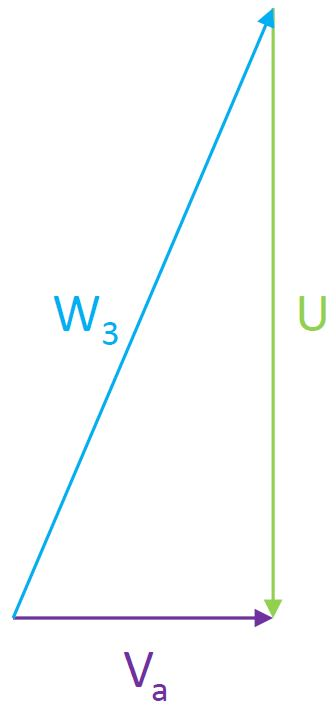
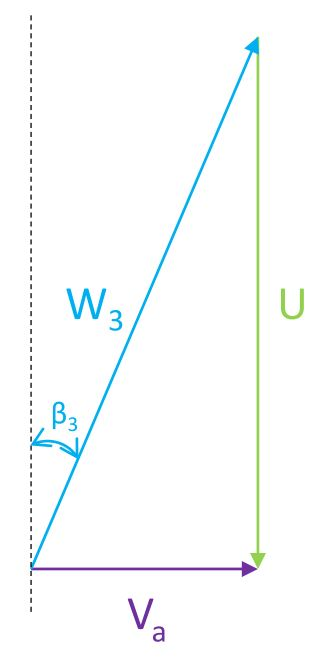
Chapter 1 finished. Chapter 2 first part.

Changed region(s): [[0.0311, 0.0, 0.8385, 0.9091], [0.3727, 0.9091, 0.528, 1.0], [0.8696, 0.3939, 0.9938, 0.4848]]

diff --git a/chapters/02_proiectare.tex b/chapters/02_proiectare.tex
@@ -1,9 +1,118 @@
-\chapter{Proiectare retele profile}\label{chapter:proiectare}
+\chapter{Proiectare rețele profile}\label{chapter:proiectare}
 
-\section{Retele de profile subtiri}
+\section{Rețele de profile subțiri}
 
-\subsection{Subsection}
+\subsection{Calculul diametrului la butuc}
 
-\section{Adaugare functie de grosime}
+Pentru a calcula diametrul la butuc conform teoriei dezvoltata la Timișoara de Susan-Resiga et al \cite{susanhub} trebuie sa rezolvam ecuația pentru intensitatea rotației $\sigma$, cu un rezultat adimensional.
+
+Conform ecuației fundamentale a turbomașinilor (ecuația lui Euler) avem viteza absolută la periferie:
+
+\begin{equation}
+gH=UV_{u}, \text{ sau } gH=\frac{\pi n}{30} R_{p} V_{up} \Rightarrow V_{u}=\frac{30gH}{\pi n R_{p}}
+\end{equation}
+
+Viteza medie de descărcare este:
+
+\begin{equation}
+V_{ad}=\frac{Q}{\pi R_{p}^2}
+\end{equation}
+
+În ambele ecuații, (2.1) și (2.2) raza conductei este practic raza de la periferie a turbinei. Ca rezultat, parametrul de intensitate a rotației este:
+
+\begin{equation}
+\sigma \equiv \frac{V_{up}}{V_{ad}} = 30 \frac{g H R_{b}}{n Q}
+\end{equation}
+
+În care regiunea (necunoscută) stagnantă $R_{s}$ (la butuc), se indică raportul de raza de stagnare fata de raza la periferie, totul la pătrat, de unde putem obține $x$ și apoi raza la butuc:
+
+\begin{equation}
+x \equiv \bigg(\frac{R_{s}}{R_{p}}\bigg)^2 \Rightarrow R_{s} = \sqrt{x} R_{p}
+\end{equation}
+
+Pentru o turbionare cu circulație constantă și o presiune totală constantă în conducta a fost derivata \cite{susanhub} o ecuație algebrică care se aplica pentru $\sigma$ și $x$:
+
+\begin{equation}
+\frac{\sigma^2}{x^2} - \frac{2}{(1-x^3)} = 0
+\end{equation}
+
+Din (2.4) și (2.5) putem calcula raza la butuc $R_{s}$ folosind \cite{lebedev1991formulae} și obținem o valoare de $94\si{mm}$.
+
+\clearpage
+
+
+\subsection{Calcule teoretice a vitezelor}
+
+Considerăm zona de interacțiune a turbinei cu fluidul în trei porțiuni:
+\begin{itemize}
+	\item prima zonă numită zonă amonte stator ZAS
+	\item a doua porțiune: zona stator-rotor numită de acum ZSR
+	\item zona trei sau zona aval rotor ZAR
+\end{itemize}
+
+La ZAS avem viteza axială $V_{a}$ care se menține pe toate cele trei porțiuni considerate ale turbinei, iar valoarea acesteia este:
+
+\begin{equation}
+V_a=\frac{Q}{\pi(R_{p}^2-R_{b}^2)}=6.8\si{m/s}
+\end{equation}\\
+
+\În ZSR, avem viteza tangențiala $U$:
+
+\begin{equation}
+U=\omega R \text{ sau } \frac{\pi n}{30} \frac{R_{b} + R_{p}}{2}=16.0\si{m/s}
+\end{equation}
+
+Conform ecuației fundamentale a turbomașinilor (ecuația lui Euler) avem viteza absolută:
+
+\begin{equation}
+gH=UV_{u}, \text{ sau } gH=\frac{\pi n}{30} \frac{R_{b}+R_{p}}{2} V_{u} \Rightarrow V_{u} = \frac{30gH}{\pi n} \frac{2}{R_{b}+R_{p}} = 14.7\si{m/s}
+\end{equation}
+
+
+Unghiul $\alpha_2$ dintre direcția tangențială și viteza absolută $V_u$ este:
+
+\begin{equation}
+arctan(\alpha_{2 })=\frac{V_{a}}{V_{u}} \Rightarrow \alpha_{2}=24.9\si{\degree}
+\end{equation}
+
+
+
+Unghiul $\beta_2$ dintre direcția tangențială și viteza relativă $W_2$ este:
+
+\begin{equation}
+arctan(\beta_{2})=\frac{V_{a}}{U - V_{u}} \Rightarrow \beta_{2} =79.0\si{\degree}
+\end{equation}
+
+
+\subsection{Triunghiurile de viteză}
+
+Triunghiurile de viteză pentru ZSR arată în felul următor:
+
+\begin{figure}[h!]
+	\centering
+	\includegraphics[scale=0.5]{figures/triunghi_viteza_ZSR.jpg}
+	\caption{Triunghi viteză în zona stator-rotor}
+	\label{Triunghi viteză în zona stator-rotor}
+\end{figure}
+
+
+
+Pentru ZAR avem aceleași viteză axială $V_a$ respectiv tangențială $U$. Putem calcula unghiul $\beta_3$ pentru a completa triunghiurile de viteză.
+
+\begin{equation}
+arctan(\beta_{3})=\frac{V_{a}}{U} \Rightarrow \beta_{3} =23.1\si{\degree}
+\end{equation}
+
+\begin{figure}[h!]
+	\centering
+	\includegraphics[scale=0.5]{figures/triunghi_viteza_ZAR.jpg}
+	\caption{Triunghi viteză în zona aval rotor}
+	\label{Triunghi viteză în zona aval rotor}
+\end{figure}
+
+\clearpage
+
+
+\section{Adăugare funcție de grosime}
 
 \subsection{Subsection}

diff --git a/chapters/01_prezentare.tex b/chapters/01_prezentare.tex
@@ -332,80 +332,8 @@ Valori țintă  & 0.05$\si{m^3/s}$ & 0.15$\si{m^3/s}$ & 10$\si{m}$ & 180$\si{m}$
 \end{table}
 
 
-\subsection{Diametrul turbinei}
+\subsection{Parametrii fundamentali aleși}
 
-Conform lucrării de doctorat a lui Neipp \cite{neipp2017zweistufige} se pot îmbunătății caracteristicile de funcționare pentru o cădere $H$ mai mare mărind diametrul turbinei fata de turbina AXENT ($D_i = 0.14\si{m}$ și un diametru exterior $D_e = 0.18\si{m}$) dezvoltata inițial la Stuttgart. Astfel Neipp ajunge la un diametru exterior $D_e = 0.22\si{m}$ iar aplicând teoria dezvoltata de Susan-Resiga \cite{susanhub} un diametrul interior devine $D_i = 0.188\si{m}$. Pentru calculul teoretic al vitezelor în turbina folosim în continuare aceste valori pentru diametre, precum și debitul de $0.07\si{m^3/s}$, căderea este aleasa la valoarea de $H=24\si{m}$, iar turația este $1500\si{rpm}$.
-
-\clearpage
-
-\subsection{Calcule teoretice a vitezelor}
-
-Considerăm zona de interacțiune a turbinei cu fluidul în trei porțiuni:
-\begin{itemize}
-	\item prima zonă numită zonă amonte stator ZAS
-	\item a doua porțiune: zona stator-rotor numită de acum ZSR
-	\item zona trei sau zona aval rotor ZAR
-\end{itemize}
-
-La ZAS avem viteza axială $V_{a}$ care se menține pe toate cele trei porțiuni considerate ale turbinei, iar valoarea acesteia este:
-
-\begin{equation}
-V_a=\frac{4Q}{\pi(D_{ext}^2-D_{int}^2)}=6.826\si{m/s}
-\end{equation}\\
-
-\In ZSR, avem viteza tangetială $U$:
-
-\begin{equation}
-U=\omega R \text{ sau } \frac{\pi n}{30} \frac{D_{med}}{2}=16.022\si{m/s}
-\end{equation}
-
-Conform ecuației fundamentale a turbomașinilor (ecuația lui Euler) avem viteza absolută la butuc respectiv periferie:
-
-\begin{equation}
-gH=UV_{u}, \text{ sau } gH=\frac{\pi n}{30} \frac{D_{med}}{2} V_{u} \Rightarrow V_{u}=\frac{30gH}{\pi n} \frac{2}{D_{med}}=14.695\si{m/s}
-\end{equation}
-
-
-Unghiul $\alpha_2$ dintre direcția tangențială și viteza absolută $V_u$ este:
-
-\begin{equation}
-arctan(\alpha_{2 })=\frac{V_{a}}{V_{u}} \Rightarrow \alpha_{2}=24.92\si{\degree}
-\end{equation}
-
-
-
-Unghiul $\beta_2$ dintre direcția tangențială și viteza relativă $W_2$ este:
-
-\begin{equation}
-arctan(\beta_{2})=\frac{V_{a}}{U - V_{u}} \Rightarrow \beta_{2} =79.00\si{\degree}
-\end{equation}
-
-
-\subsection{Triunghiurile de viteză}
-
-Triunghiurile de viteză pentru ZSR arată în felul următor:
-
-\begin{figure}[h!]
-	\centering
-	\includegraphics[scale=0.5]{figures/triunghi_viteza_ZSR.jpg}
-	\caption{Triunghi viteză în zona stator-rotor}
-	\label{Triunghi viteză în zona stator-rotor}
-\end{figure}
-
-
-
-Pentru ZAR avem aceleași viteză axială $V_a$ respectiv tangențială $U$. Putem calcula unghiul $\beta_3$ pentru a completa triunghiurile de viteză.
-
-\begin{equation}
-arctan(\beta_{3})=\frac{V_{a}}{U} \Rightarrow \beta_{3} =23.08\si{\degree}
-\end{equation}
-
-\begin{figure}[h!]
-	\centering
-	\includegraphics[scale=0.5]{figures/triunghi_viteza_ZAR.jpg}
-	\caption{Triunghi viteză în zona aval rotor}
-	\label{Triunghi viteză în zona aval rotor}
-\end{figure}
+Conform lucrării de doctorat a lui Neipp \cite{neipp2017zweistufige} se pot îmbunătății caracteristicile de funcționare pentru o cădere $H$ mai mare mărind diametrul turbinei fata de turbina AXENT ($D_i = 0.14\si{m}$ și un diametru exterior $D_e = 0.18\si{m}$) dezvoltata inițial la Stuttgart. Astfel Neipp ajunge la un diametru exterior $D_e = 0.22\si{m}$. Pentru calcululele viitoare folosim în continuare aceste valori pentru diametrul exterior, precum și debitul de $0.07\si{m^3/s}$, căderea este aleasa la valoarea de $H=24\si{m}$, iar turația este $n=1500\si{rpm}$.
 
 \clearpage
-

diff --git a/chapters/04_curgerea.tex b/chapters/04_curgerea.tex
@@ -1,7 +1,7 @@
-\chapter{Curgerea nestationara in retele in tandem stator/rotor}\label{chapter:curgerea}
+\chapter{Curgerea nestaționara în rețele în tandem stator/rotor}\label{chapter:curgerea}
 
-\section{Reducerea fluctuatiilor de forta pe profile}
+\section{Reducerea fluctuațiilor de forța pe profile}
 
-\subsection{Distanta intre retele}
+\subsection{Distanta intre rețele}
 
-\subsection{Injectie apa la bordul de fuga}
+\subsection{Injecție apa la bordul de fuga}

diff --git a/chapters/03_analiza.tex b/chapters/03_analiza.tex
@@ -1,4 +1,4 @@
-\chapter{Analiza FLUENT - retele profile separate}\label{chapter:analiza}
+\chapter{Analiza FLUENT - rețele profile separate}\label{chapter:analiza}
 
 \section{Section}
 
